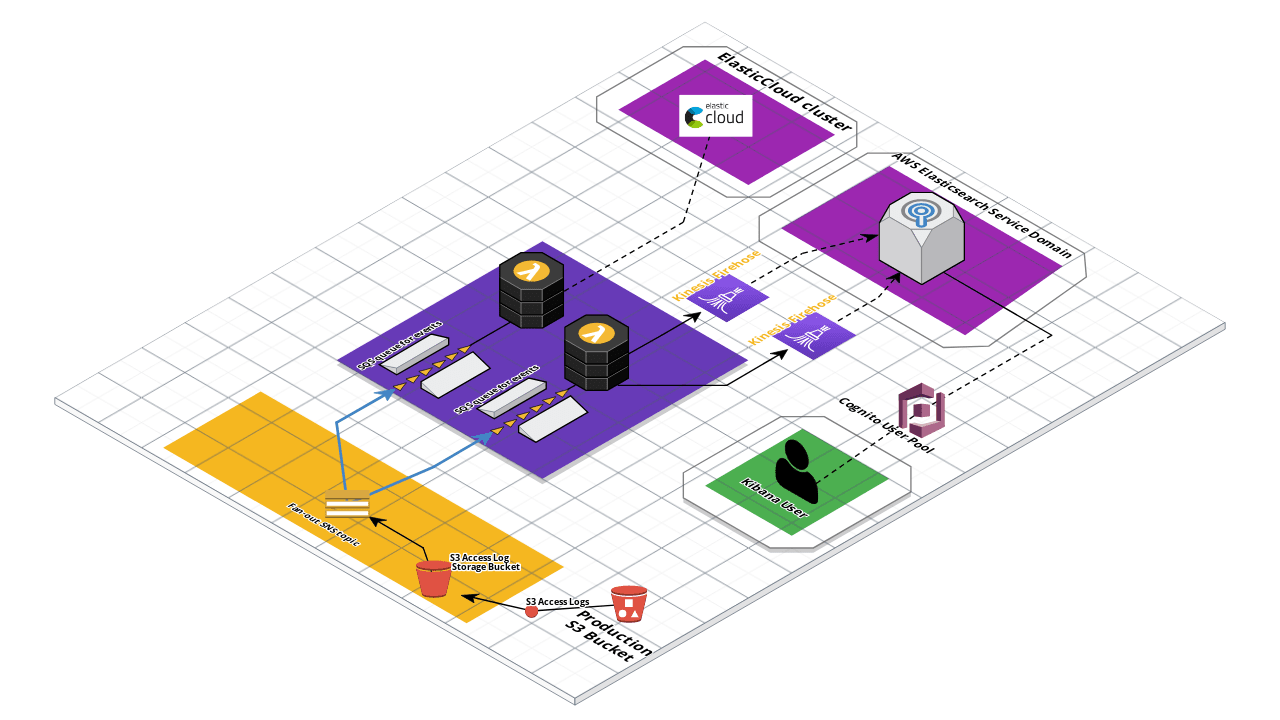
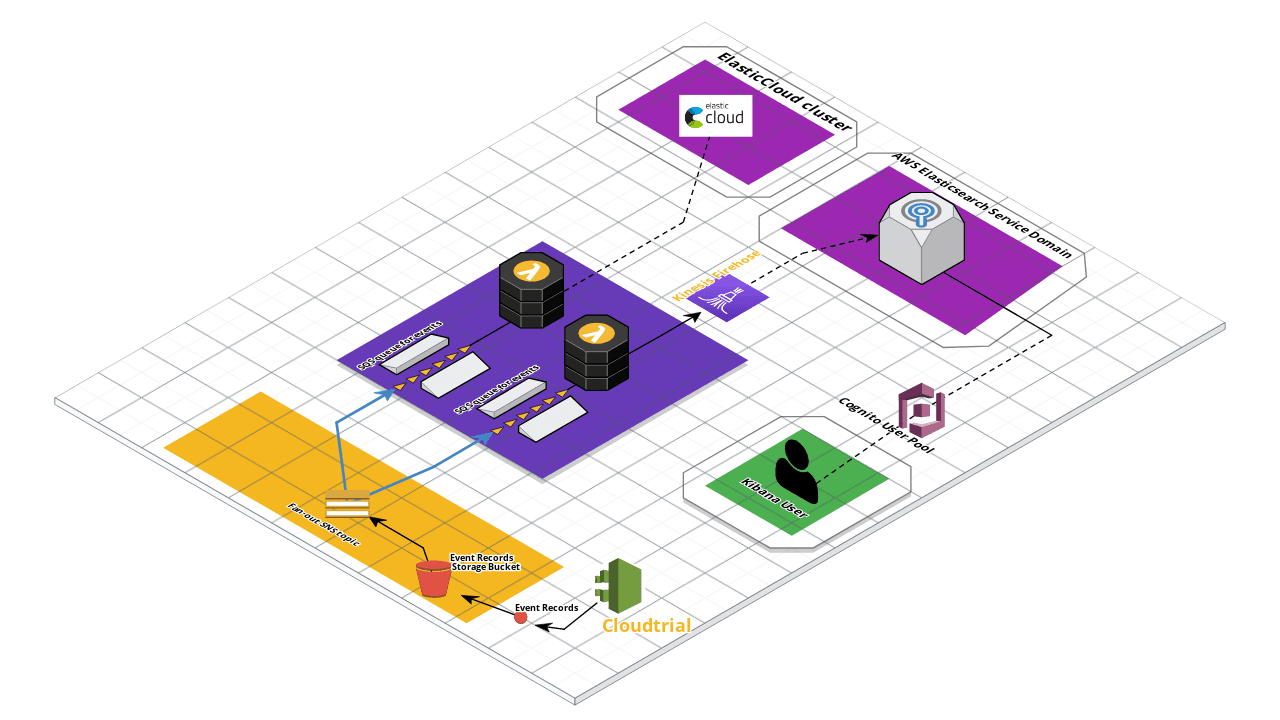
updating diagram image and README link

diff --git a/README.md b/README.md
@@ -3,7 +3,7 @@
 Send Cloudtrail logs to Elasticsearch.  
 
 
-[Live Architecture Diagram Link - TBD](link)
+[Live Architecture Diagram Link - TBD](https://app.cloudcraft.co/view/e427f145-3e9b-4362-aed6-0b4eba1403c8?key=xUrf3XVBsbKPpO119ObJbQ)
 
 ![Architecture Diagram](s3-to-elasticsearch-cloudtrail.png)
 
